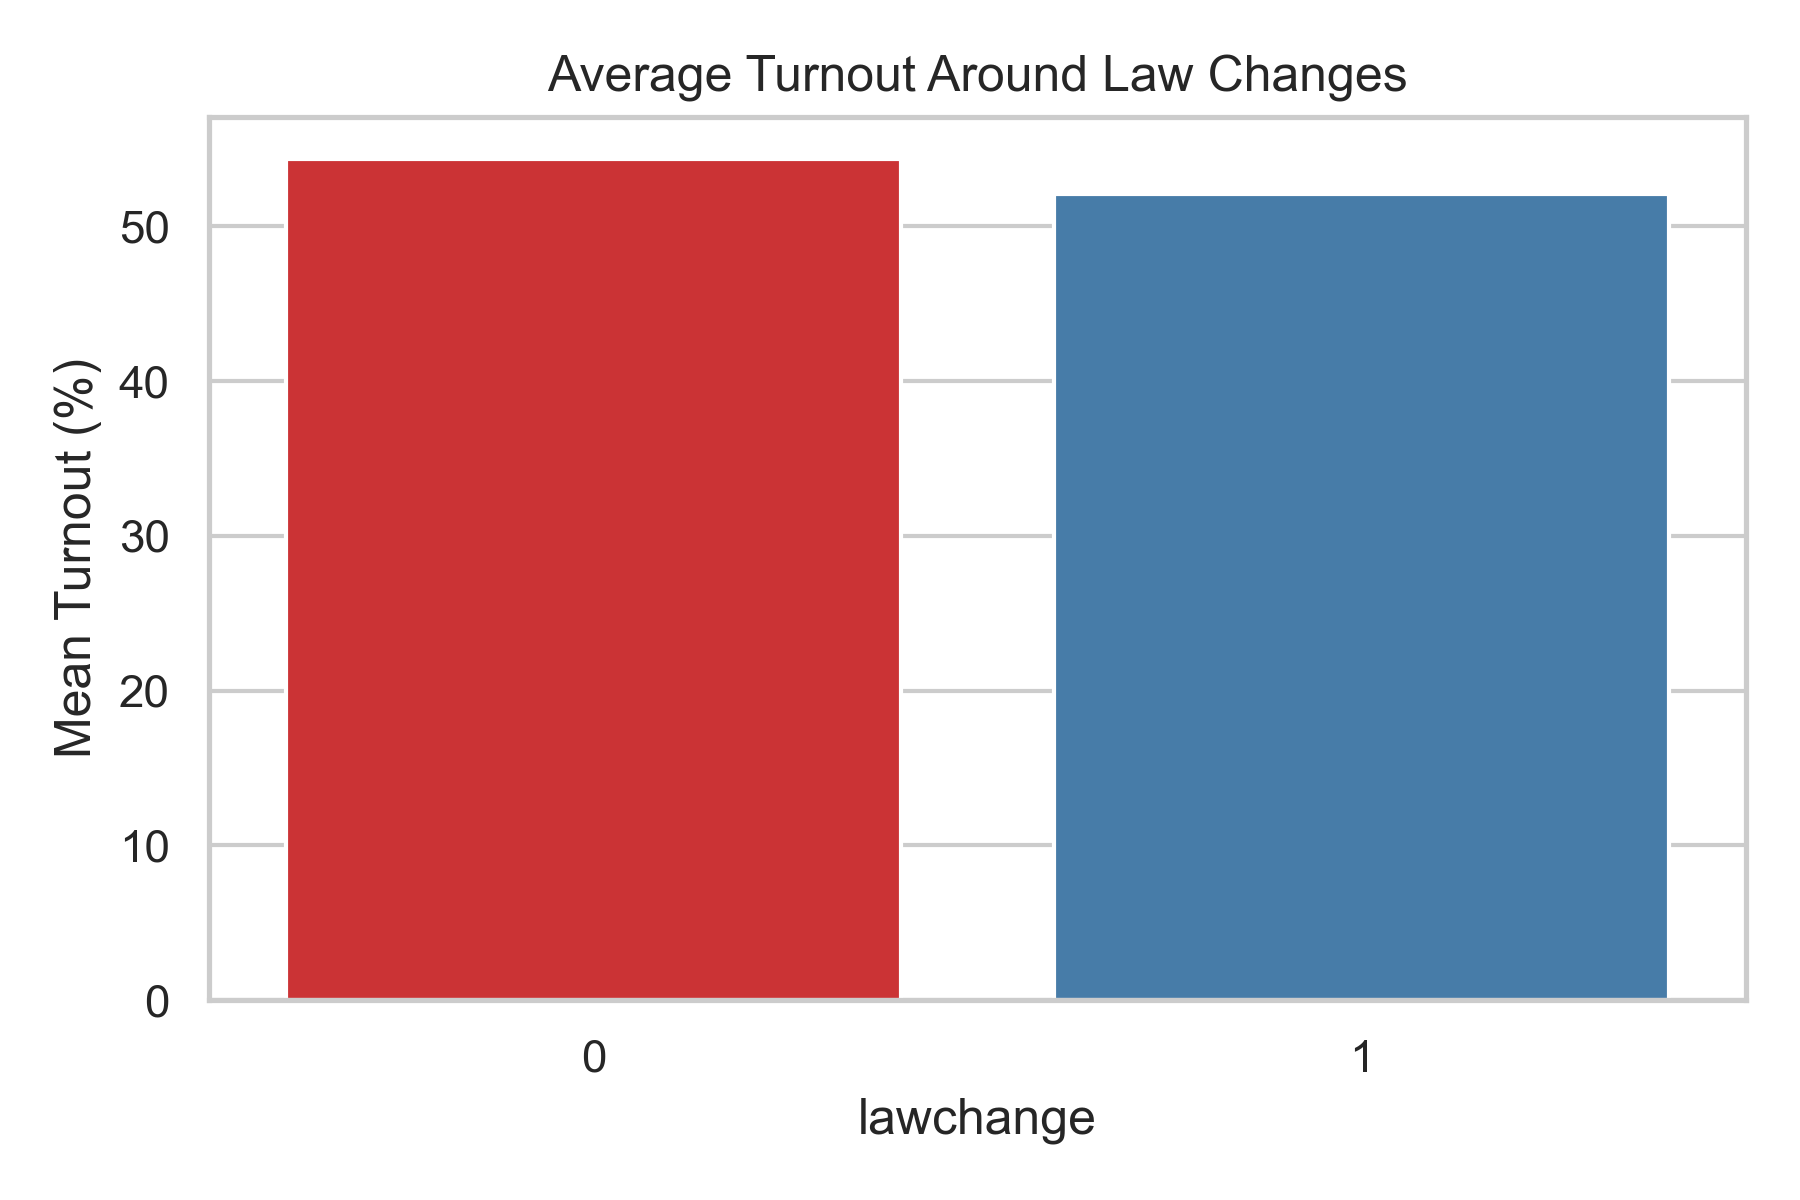
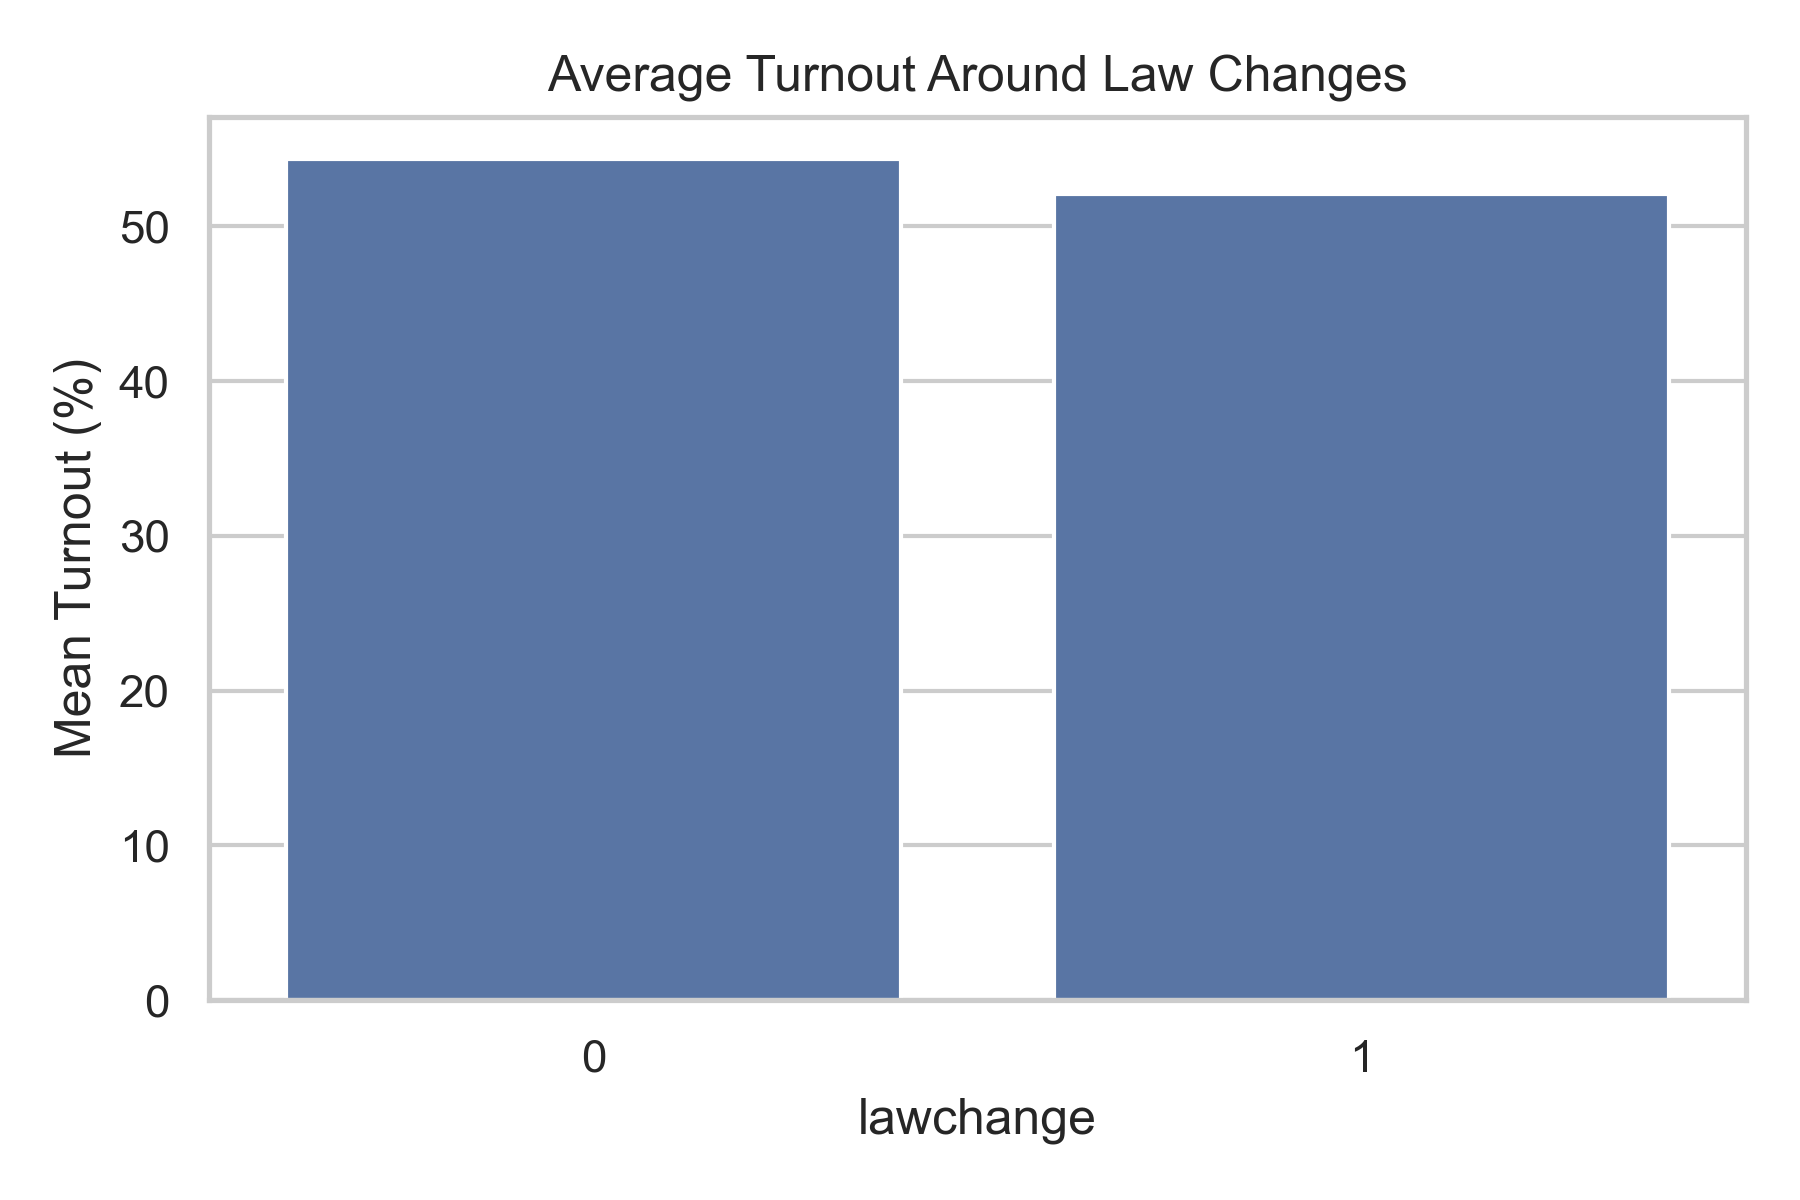
n

Changed region(s): [[0.1556, 0.1233, 0.4978, 0.8325]]

diff --git a/problemset2.py b/problemset2.py
@@ -142,7 +142,7 @@ plt.figure(figsize=(6,4))
 
 reg_means = df.groupby("registration")["turnout_pct"].mean().reset_index()
 
-sns.barplot(x="registration", y="turnout_pct", data=reg_means, palette="viridis")
+sns.barplot(x="registration", y="turnout_pct", data=reg_means)
 
 plt.title("Average Turnout by Registration Regime")
 plt.ylabel("Mean Turnout (%)")
@@ -158,7 +158,7 @@ plt.figure(figsize=(6,4))
 
 pres_means = df.groupby("presyear")["turnout_pct"].mean().reset_index()
 
-sns.barplot(x="presyear", y="turnout_pct", data=pres_means, palette="Set2")
+sns.barplot(x="presyear", y="turnout_pct", data=pres_means)
 
 plt.title("Average Turnout: Presidential vs Non-Presidential Years")
 plt.ylabel("Mean Turnout (%)")
@@ -173,7 +173,7 @@ plt.figure(figsize=(6,4))
 
 law_means = df.groupby("lawchange")["turnout_pct"].mean().reset_index()
 
-sns.barplot(x="lawchange", y="turnout_pct", data=law_means, palette="Set1")
+sns.barplot(x="lawchange", y="turnout_pct", data=law_means)
 
 plt.title("Average Turnout Around Law Changes")
 plt.ylabel("Mean Turnout (%)")
@@ -182,7 +182,7 @@ plt.tight_layout()
 plt.savefig("outputs/turnout_by_lawchange_bar.png", dpi=300)
 plt.show()
 plt.close()
-
+ 
 # Correlation matric
 plt.figure(figsize=(10,6))
 
